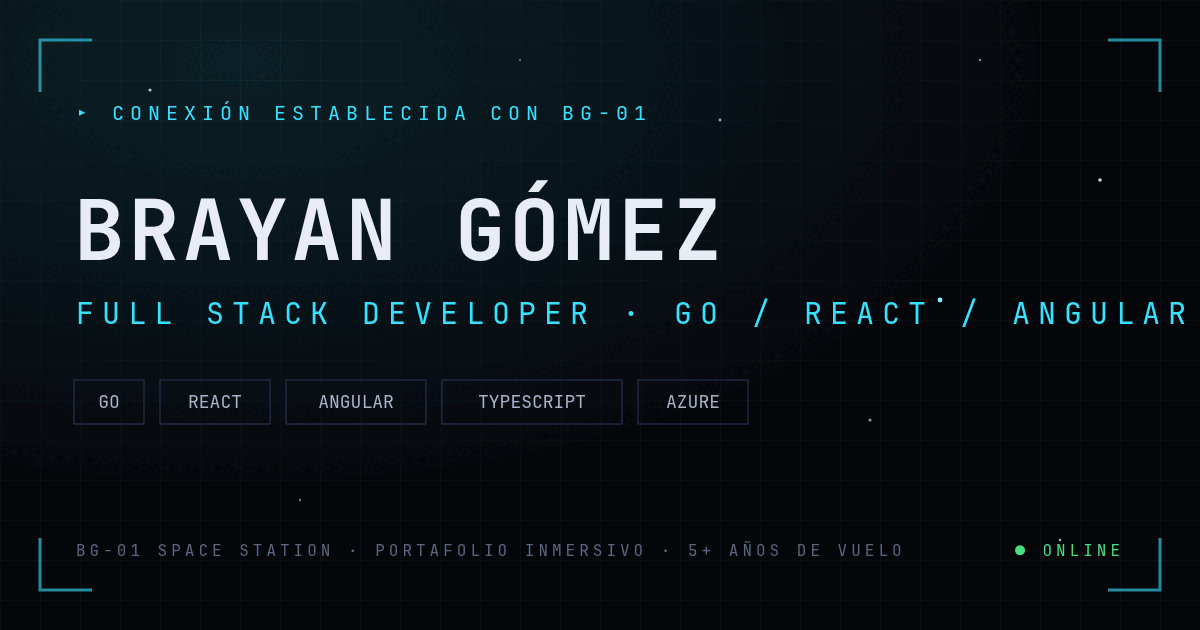
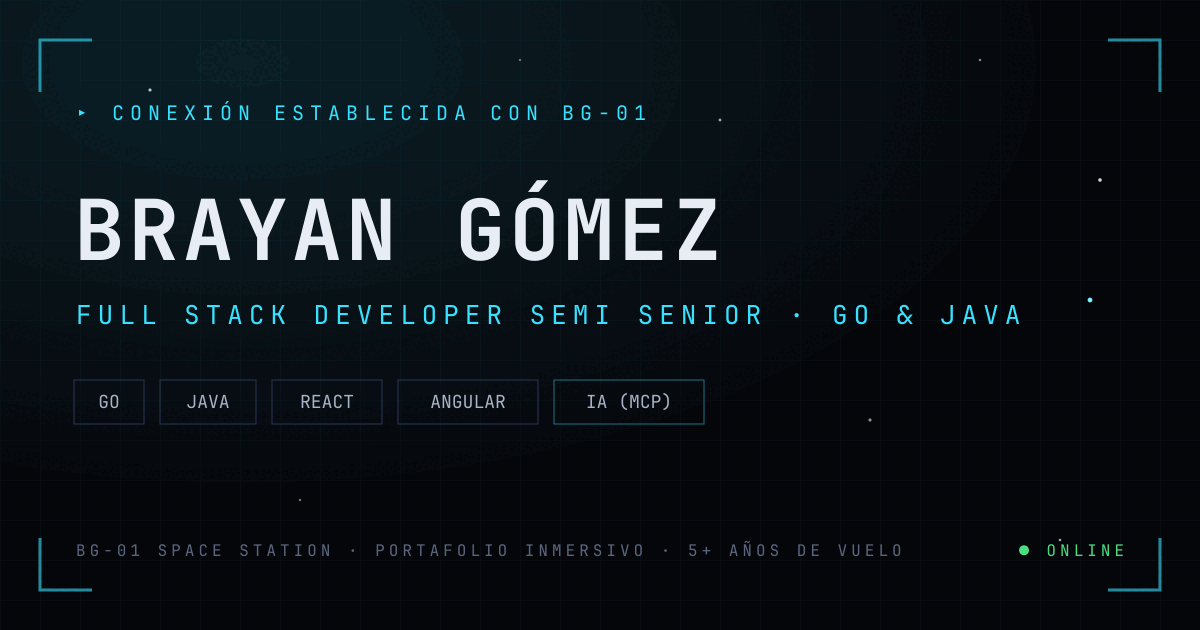
feat(seo): posicionamiento Go · Java · IA en metadatos e imagen social
- Puente: título «Brayan Gómez — Full Stack Developer (Go · Java · IA)» y
  meta descripción nueva; descripciones de Sistemas y Misiones al día.
- og-image: rol Semi Senior · Go & Java en una línea dentro del marco y
  chips Go, Java, React, Angular, IA (MCP); PNG8 regenerado (52 KB).
- Meta genérica de index.html alineada con el mismo posicionamiento.
- JSON-LD Person: sameAs con todos los perfiles públicos de las
  frecuencias (GitHub y LinkedIn) y knowsAbout con las tecnologías
  destacadas. featuredStack pasa a content/technologies.ts y lo comparten
  el Hero y el JSON-LD.

Changed region(s): [[0.1542, 0.6032, 0.6167, 0.6937], [0.0617, 0.4825, 0.9867, 0.5127], [0.8633, 0.8444, 0.925, 0.9048]]

diff --git a/index.html b/index.html
@@ -11,7 +11,7 @@
     <title>BG-01 Space Station — Brayan Gómez</title>
     <meta
       name="description"
-      content="Estación espacial BG-01: portafolio inmersivo de Brayan Gómez, Full Stack Developer (Go, React, Angular). Conéctate y explora misiones, sistemas y bitácora."
+      content="Estación espacial BG-01: portafolio inmersivo de Brayan Gómez, Full Stack Developer Semi Senior en Go y Java, React y Angular, que desarrolla con agentes de IA y construye servidores MCP."
     />
     <meta name="theme-color" content="#05060A" />
     <meta name="author" content="Brayan Gómez" />
@@ -22,7 +22,7 @@
     <meta property="og:title" content="BG-01 Space Station — Brayan Gómez" />
     <meta
       property="og:description"
-      content="Portafolio inmersivo de Brayan Gómez, Full Stack Developer. Explora la estación BG-01."
+      content="Portafolio inmersivo de Brayan Gómez, Full Stack Developer Semi Senior en Go y Java que desarrolla con agentes de IA. Explora la estación BG-01."
     />
     <meta property="og:url" content="https://brayangomez.dev/" />
     <meta property="og:image" content="https://brayangomez.dev/og-image.png" />
@@ -33,7 +33,7 @@
     <meta name="twitter:title" content="BG-01 Space Station — Brayan Gómez" />
     <meta
       name="twitter:description"
-      content="Portafolio inmersivo de Brayan Gómez, Full Stack Developer."
+      content="Portafolio inmersivo de Brayan Gómez, Full Stack Developer Semi Senior en Go y Java que desarrolla con agentes de IA."
     />
     <meta name="twitter:image" content="https://brayangomez.dev/og-image.png" />
 

diff --git a/src/lib/seo/seo.config.ts b/src/lib/seo/seo.config.ts
@@ -24,9 +24,9 @@ export function pageTitle(title: string): string {
 
 export const seoByRoute = {
   bridge: {
-    title: pageTitle('Puente de mando'),
+    title: 'Brayan Gómez — Full Stack Developer (Go · Java · IA)',
     description:
-      'Conéctate a la estación BG-01: el portafolio inmersivo de Brayan Gómez, Full Stack Developer especializado en Go, React y Angular.',
+      'Portafolio de Brayan Gómez, Full Stack Developer Semi Senior en Go y Java (Spring Boot), React y Angular, que desarrolla con agentes de IA y construye servidores MCP.',
   },
   pilot: {
     title: pageTitle('Ficha del piloto'),
@@ -36,12 +36,12 @@ export const seoByRoute = {
   systems: {
     title: pageTitle('Sistemas orbitales'),
     description:
-      'Las tecnologías de Brayan como planetas en órbita: Go, TypeScript, Angular, React, NestJS, MongoDB y Azure.',
+      'Las tecnologías de Brayan como planetas en órbita: Go, Java, Spring Boot, React, Angular, PostgreSQL, MCP y más, con los años de uso de cada una.',
   },
   missions: {
     title: pageTitle('Registro de misiones'),
     description:
-      'Proyectos de Brayan Gómez: migración Angular → React, pagos recurrentes en Go, bots multicanal y plataformas de impacto social.',
+      'Proyectos de Brayan Gómez: Cuadra (SaaS en Go), pagos para agentes de IA con MCP, migración Java → Go, pagos recurrentes y migración Angular → React.',
   },
   logbook: {
     title: pageTitle('Bitácora de vuelo'),

diff --git a/src/features/bridge/components/Hero/Hero.tsx b/src/features/bridge/components/Hero/Hero.tsx
@@ -2,15 +2,10 @@ import { motion } from 'motion/react';
 import { Button, Heading, Text } from '@/components/ui';
 import { ROUTES } from '@/app/router/paths';
 import { pilot } from '@/content/pilot';
-import { technologies } from '@/content/technologies';
+import { featuredStack } from '@/content/technologies';
 import { staggerContainer, fadeInUp, revealMask } from '@/lib/motion/variants';
 import { EvaScan } from '../EvaScan/EvaScan';
 import styles from './Hero.module.css';
-
-const STACK = technologies
-  .filter((t) => t.featured)
-  .sort((a, b) => a.order - b.order)
-  .slice(0, 5);
 
 export function Hero() {
   return (
@@ -41,7 +36,7 @@ export function Hero() {
         </motion.div>
 
         <motion.ul variants={fadeInUp} className={styles.hero__stack} role="list">
-          {STACK.map((tech) => (
+          {featuredStack.map((tech) => (
             <li key={tech.id} className={styles['hero__stack-chip']}>
               {tech.name}
             </li>

diff --git a/src/features/bridge/BridgePage.tsx b/src/features/bridge/BridgePage.tsx
@@ -3,6 +3,8 @@ import { Seo } from '@/lib/seo/Seo';
 import { seoByRoute, SITE } from '@/lib/seo/seo.config';
 import { ROUTES } from '@/app/router/paths';
 import { pilot } from '@/content/pilot';
+import { frequencies } from '@/content/socials';
+import { featuredStack } from '@/content/technologies';
 import { Hero } from './components/Hero/Hero';
 import { CoreActivity } from './components/CoreActivity/CoreActivity';
 import { ModuleNav } from './components/ModuleNav/ModuleNav';
@@ -14,7 +16,9 @@ const personJsonLd = {
   name: pilot.name,
   jobTitle: pilot.role,
   url: SITE.url,
-  sameAs: ['https://github.com/brayangomez22'],
+  // Public profiles (GitHub, LinkedIn) — every channel that isn't mailto.
+  sameAs: frequencies.map((f) => f.url).filter((url) => url.startsWith('https://')),
+  knowsAbout: featuredStack.map((t) => t.name),
 };
 
 export default function BridgePage() {

diff --git a/src/content/technologies.ts b/src/content/technologies.ts
@@ -7,6 +7,12 @@ import data from './_generated/technologies.json';
  */
 export const technologies = data as unknown as Technology[];
 
+/** The five featured technologies, in display order: the Puente tags. */
+export const featuredStack = technologies
+  .filter((t) => t.featured)
+  .sort((a, b) => a.order - b.order)
+  .slice(0, 5);
+
 /** Lookup helper. */
 export const technologyById = (id: string): Technology | undefined =>
   technologies.find((t) => t.id === id);
